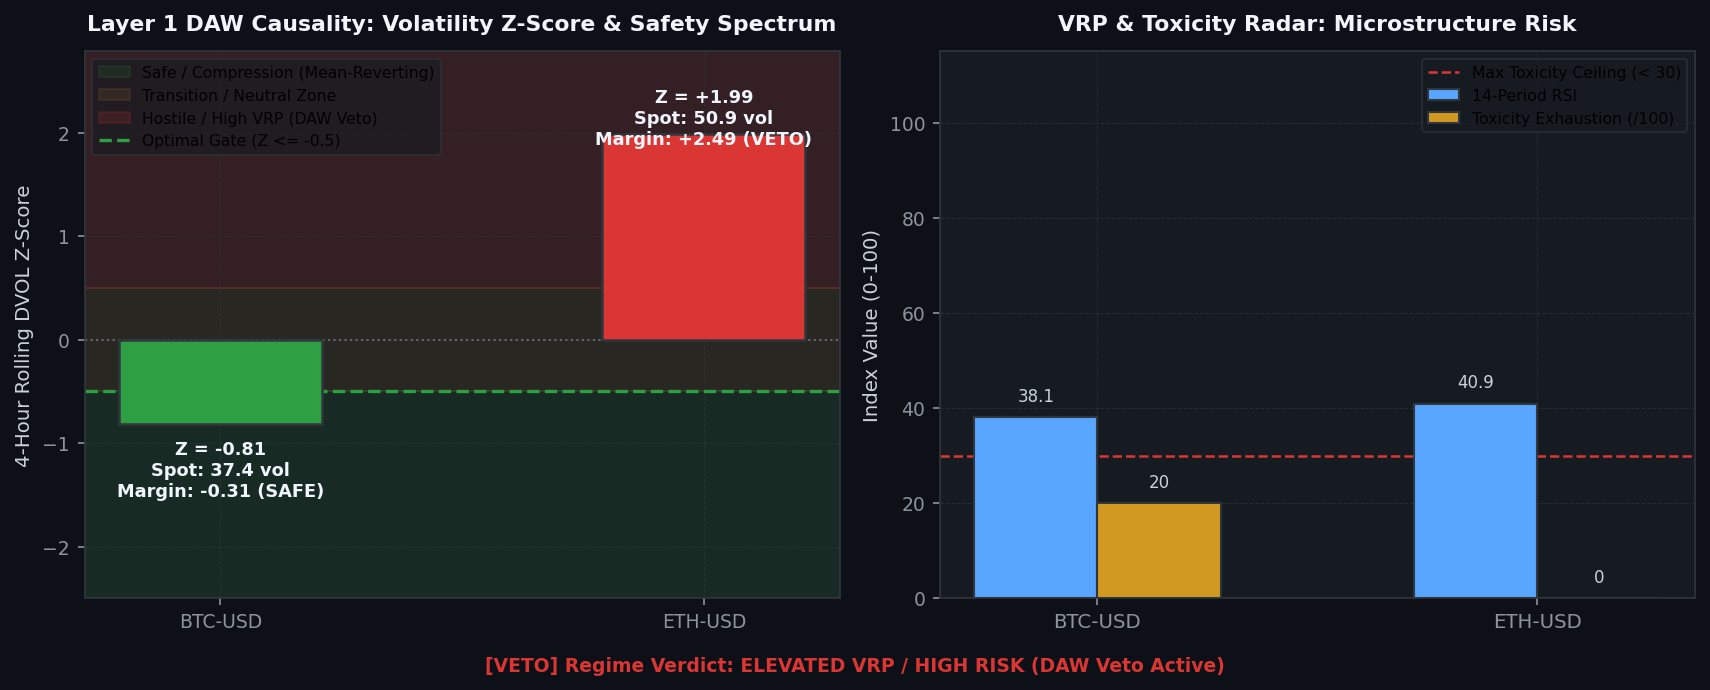
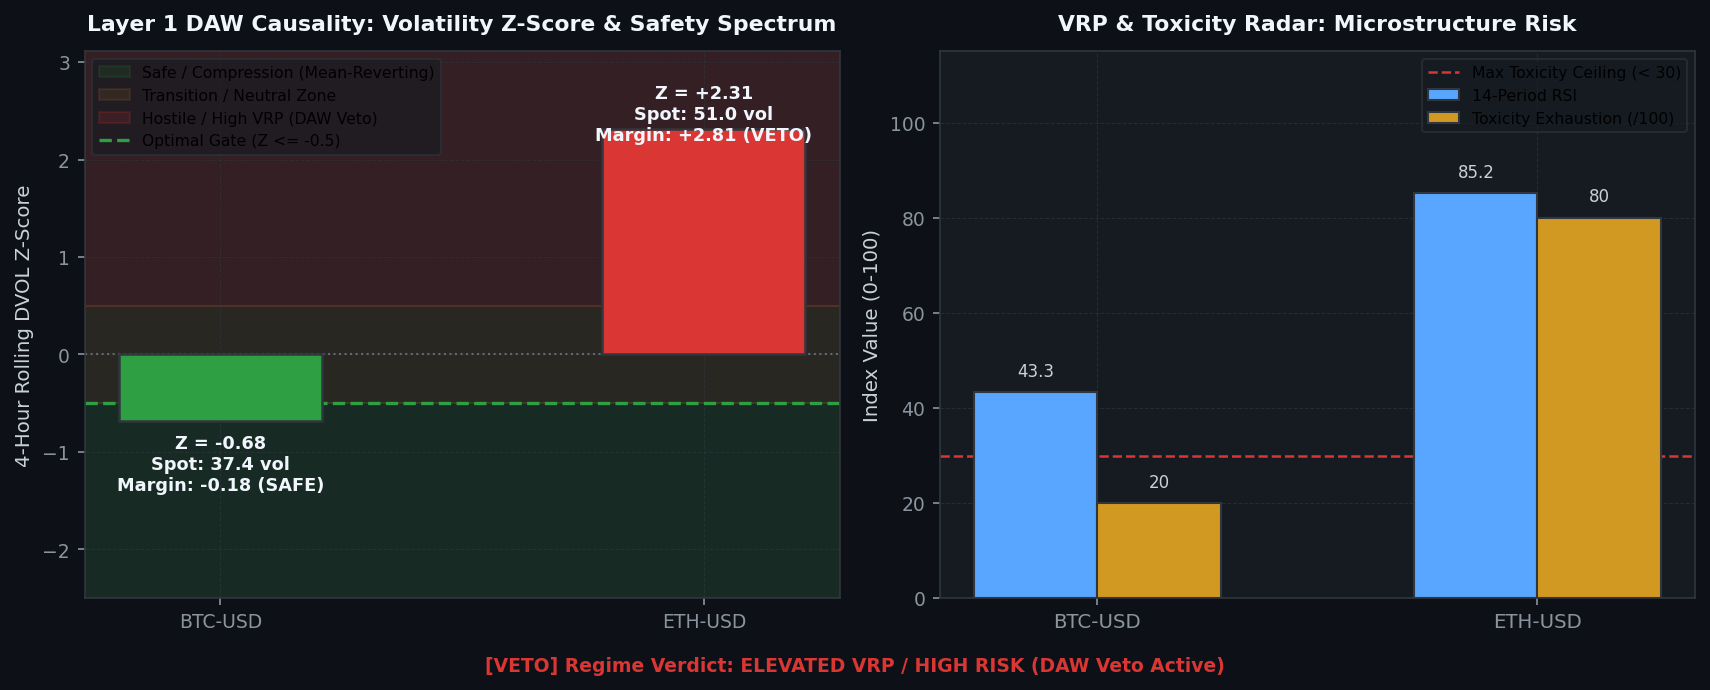
[coinbase] Hourly Status & Visual Intelligence Update: 2026-08-29 12:43:43

diff --git a/coinbase/data/hourly_status_report.md b/coinbase/data/hourly_status_report.md
@@ -3,7 +3,7 @@ layout: default
 ---
 
 # 🛡 Unified Trading System Hourly Status & Visual Intelligence
-> **Report Generated**: `2026-08-29 12:25:05 PM PDT (2026-08-29 19:25:05 UTC)`  
+> **Report Generated**: `2026-08-29 12:43:26 PM PDT (2026-08-29 19:43:26 UTC)`  
 > **System Health**: **🟡 DEGRADED / RESTRICTED** | **Win Rate**: `0.0%` | **Completed Trades**: `0`
 
 
@@ -15,13 +15,13 @@ Real-time Deribit implied volatility (DVOL) proxy tracking against mathematicall
 
 | Symbol | Proxy Oracle | Live Z-Score | Optimal Limit (YSP) | Safety Margin | Live VRP | Optimal VRP (YSP) | DAW Safety Verdict |
 | :--- | :--- | :--- | :--- | :--- | :--- | :--- | :--- |
-| `AVAX-USD` | DVOL_BTC | **-0.81** | **-0.50** | **-0.31** | **N/A** | 5.0 | 🟢 SAFE |
-| `ETH-USD` | DVOL_ETH | **+2.02** | **-0.50** | **+2.52** | **+15.21** | 5.0 | 🔴 DAW VETOED |
-| `ADA-USD` | DVOL_BTC | **-0.81** | **-0.50** | **-0.31** | **N/A** | 5.0 | 🟢 SAFE |
-| `DOGE-USD` | DVOL_BTC | **-0.81** | **-0.50** | **-0.31** | **N/A** | 5.0 | 🟢 SAFE |
-| `BTC-USD` | DVOL_BTC | **-0.81** | **-0.50** | **-0.31** | **N/A** | 5.0 | 🟢 SAFE |
-| `LINK-USD` | DVOL_BTC | **-0.81** | **-0.50** | **-0.31** | **+0.31** | 5.0 | 🟢 SAFE |
-| `SOL-USD` | DVOL_BTC | **-0.81** | **-0.50** | **-0.31** | **+1.43** | 5.0 | 🟢 SAFE |
+| `AVAX-USD` | DVOL_BTC | **-0.64** | **-0.50** | **-0.14** | **N/A** | 5.0 | 🟢 SAFE |
+| `ETH-USD` | DVOL_ETH | **+2.28** | **-0.50** | **+2.78** | **+15.21** | 5.0 | 🔴 DAW VETOED |
+| `ADA-USD` | DVOL_BTC | **-0.64** | **-0.50** | **-0.14** | **N/A** | 5.0 | 🟢 SAFE |
+| `DOGE-USD` | DVOL_BTC | **-0.64** | **-0.50** | **-0.14** | **N/A** | 5.0 | 🟢 SAFE |
+| `BTC-USD` | DVOL_BTC | **-0.64** | **-0.50** | **-0.14** | **N/A** | 5.0 | 🟢 SAFE |
+| `LINK-USD` | DVOL_BTC | **-0.64** | **-0.50** | **-0.14** | **+0.31** | 5.0 | 🟢 SAFE |
+| `SOL-USD` | DVOL_BTC | **-0.64** | **-0.50** | **-0.14** | **+1.43** | 5.0 | 🟢 SAFE |
 
 
 
@@ -37,16 +37,16 @@ We hereby certify that the mission-critical algorithmic data assets uploaded by 
 
 | Status | Data Asset | Freshness / State | Details / Timestamp |
 | :---: | :--- | :--- | :--- |
-| ✅ | **Go-List JSON** | Fresh (12.39h old) | 08-29 00:01 |
-| ✅ | **TimesFM Forecasts** | Fresh (4.36h old) | 08-29 08:03 |
-| ❌ | **Holding Times config** | STALE! (195.4h old) | Limit 137.4h |
-| ✅ | **BTC DVOL Cache** | Fresh (0.00h old) | 08-29 12:25 |
-| ✅ | **ETH DVOL Cache** | Fresh (0.00h old) | 08-29 12:25 |
-| ❌ | **Live Trading Telemetry** | STALE! (12.1h old) | Limit 0.1h |
+| ✅ | **Go-List JSON** | Fresh (12.70h old) | 08-29 00:01 |
+| ✅ | **TimesFM Forecasts** | Fresh (4.67h old) | 08-29 08:03 |
+| ❌ | **Holding Times config** | STALE! (195.7h old) | Limit 137.7h |
+| ✅ | **BTC DVOL Cache** | Fresh (0.00h old) | 08-29 12:43 |
+| ✅ | **ETH DVOL Cache** | Fresh (0.01h old) | 08-29 12:43 |
+| ❌ | **Live Trading Telemetry** | STALE! (12.4h old) | Limit 0.1h |
 
 <br>
 
-> **Utilization Certification**: ✅ **CERTIFIED.** The Guardian Watchdog is ONLINE and EC2 traders are actively querying the freshest MLOps data artifacts (Found 30 recent read events).
+> **Utilization Certification**: ✅ **CERTIFIED.** The Guardian Watchdog is ONLINE and EC2 traders are actively querying the freshest MLOps data artifacts (Found 22 recent read events).
 
 
 ---
@@ -94,14 +94,14 @@ Live balance sheet and open maker liquidity positions from Coinbase CDP.
 ## 4. 🤖 Foundation Model MLOps & Pipeline Orchestration
 Weekly Algorithmic Mega Cap selection, Zero-shot multi-step forward return forecasts, and VSTEF parameter grid search status.
 
-- **TimesFM Forecast DB**: 🟢 Updated 4.4h ago (2026-08-29 08:03 AM PDT)
+- **TimesFM Forecast DB**: 🟢 Updated 4.7h ago (2026-08-29 08:03 AM PDT)
 - **Last Weekly VSTEF Optimization**: `2026-08-05 09:22:38 AM PDT`
-- **Next Scheduled VSTEF Run**: `2026-08-30 07:00:00 PM PDT (Monday 02:00 UTC)` (Countdown: **30.6h (1d 6h 34m)**)
+- **Next Scheduled VSTEF Run**: `2026-08-30 07:00:00 PM PDT (Monday 02:00 UTC)` (Countdown: **30.3h (1d 6h 16m)**)
 - **Promoted Parameter Gates**: $Z_{DVOL} \le -0.5$ | Holding Horizon $= 12\text{h}$
 
 ### Algorithmic Mega Cap Selection
 - **Last Run (Confirmation)**: `2026-08-29 12:01:39 AM PDT`
-- **Next Scheduled Run**: `2026-08-30 06:00:00 PM PDT (Monday 01:00 UTC)` (Countdown: **29.6h (1d 5h 34m)**)
+- **Next Scheduled Run**: `2026-08-30 06:00:00 PM PDT (Monday 01:00 UTC)` (Countdown: **29.3h (1d 5h 16m)**)
 - **Selected Mega Cap Universe**: `BTC, BCH, AVAX, ETH, ALGO, ADA, LTC, DOGE, AAVE, LINK, DOT, HBAR`
 
 
@@ -115,20 +115,20 @@ Visualizing the impact of the VSTEF (Volatility-Synchronized Stop-Tightening Exe
 ## 5. 🖥 Multi-Node Infrastructure & Watchdog Matrix
 ```text
 ================================================================================
-   🛡  SFGK FUNNEL GUARDIAN WATCHDOG (HFT ONLY) |  07:25:01 PM
-   CPU:   3.3%  |  MEM:   5.8% (14.5GB / 15.4GB Free)
+   🛡  SFGK FUNNEL GUARDIAN WATCHDOG (HFT ONLY) |  07:43:24 PM
+   CPU:   2.6%  |  MEM:   5.8% (14.5GB / 15.4GB Free)
 ================================================================================
 SERVICE              | PID      | STATUS          | RESTARTS | INFO
 --------------------------------------------------------------------------------
 L3 Consumer          | 4155901  | RUNNING         | -        | Continuous Websocket Feed
 MAO Daemon           | 4155908  | RUNNING         | -        | Oracle Yield Analysis
 U/U Farmer           | 4155910  | RUNNING         | -        | Volume Farmer
-Trader AVAX-USD      | 30767    | COOL-DOWN       | 152      | Next run in 0.0s
-Trader ETH-USD       | 30768    | COOL-DOWN       | 152      | Next run in 0.0s
-Trader ADA-USD       | 30769    | COOL-DOWN       | 152      | Next run in 0.0s
-Trader DOGE-USD      | 30770    | COOL-DOWN       | 152      | Next run in 0.0s
-Trader BTC-USD       | 30771    | COOL-DOWN       | 152      | Next run in 0.0s
-Trader LINK-USD      | 30772    | COOL-DOWN       | 152      | Next run in 0.0s
+Trader AVAX-USD      | 44740    | COOL-DOWN       | 183      | Next run in 0.0s
+Trader ETH-USD       | 44741    | COOL-DOWN       | 183      | Next run in 0.0s
+Trader ADA-USD       | 44742    | COOL-DOWN       | 183      | Next run in 0.0s
+Trader DOGE-USD      | 44743    | COOL-DOWN       | 183      | Next run in 0.0s
+Trader BTC-USD       | 44744    | COOL-DOWN       | 183      | Next run in 0.0s
+Trader LINK-USD      | 44745    | COOL-DOWN       | 183      | Next run in 0.0s
 ```
 
 ---

diff --git a/coinbase/data/visual_intelligence.md b/coinbase/data/visual_intelligence.md
@@ -4,7 +4,7 @@ title: Visual Intelligence Gallery
 ---
 
 # 📈 Visual Intelligence Gallery
-> **Generated:** `2026-08-29 12:25:22`
+> **Generated:** `2026-08-29 12:43:43`
 > **[Return to Main Status Report](./hourly_status_report.md)**
 
 This page visualizes the internal states, market profiles, and decision criteria of the active **3-Tier Fused Decision Engine** across all layers.
